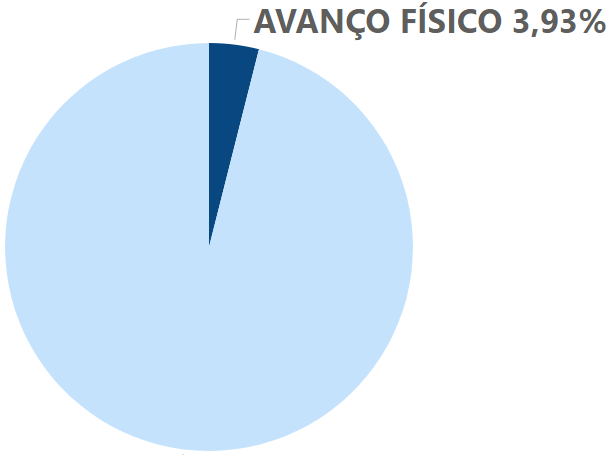
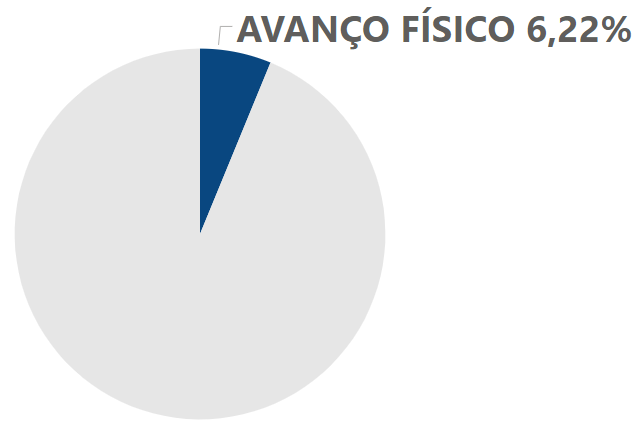
atualização de informações.

diff --git a/script.js b/script.js
@@ -16,7 +16,7 @@ var marker1 = L.marker([-3.795764, -38.534455]).addTo(map);
 
 var popupContent1 = '<div class="popup-content">' +
   '<img src="\FORTALEZA.png">' +
-  '<p class="popup-text"><strong>SUB-BACIAS CE-07_08_09_ETE COCÓ</strong><br><br>CONTRATO: 048/2022<br>AVANÇO FÍSICO: 3,93%<br>AVANÇO FINANCEIRO: 9,14%<br><br>CLIQUE PARA MAIS INFORMAÇÕES...</p>' +
+  '<p class="popup-text"><strong>SUB-BACIAS CE-07_08_09_ETE COCÓ</strong><br><br>CONTRATO: 048/2022<br>AVANÇO FÍSICO: 6,22%<br>AVANÇO FINANCEIRO: 11,46%<br><br>CLIQUE PARA MAIS INFORMAÇÕES...</p>' +
   '</div>';
   
 
@@ -42,7 +42,7 @@ marker1.on('click', function(e) {
 
 // marker2
 var marker2 = L.marker([-4.088785, -38.500393]).addTo(map);
-marker2.bindPopup('<div class="popup-content"><img src="\HORIZONTE.png"><p class="popup-text"><strong>SAAI HORIZONTE, PACAJUS E CHOROZINHO </strong> <br><br> CONTRATO: 039/2022 <br> AVANÇO FÍSICO: 7,64% <br> AVANÇO FINANCEIRO: 18,56% <br><BR>CLIQUE PARA SABER MAIS...</p></div>');
+marker2.bindPopup('<div class="popup-content"><img src="\HORIZONTE.png"><p class="popup-text"><strong>SAAI HORIZONTE, PACAJUS E CHOROZINHO </strong> <br><br> CONTRATO: 039/2022 <br> AVANÇO FÍSICO: 12,43% <br> AVANÇO FINANCEIRO:  21,69% <br><BR>CLIQUE PARA SABER MAIS...</p></div>');
 
 marker2.on('mouseover', function(e) {
   this.getElement().classList.add('marker-neon');
